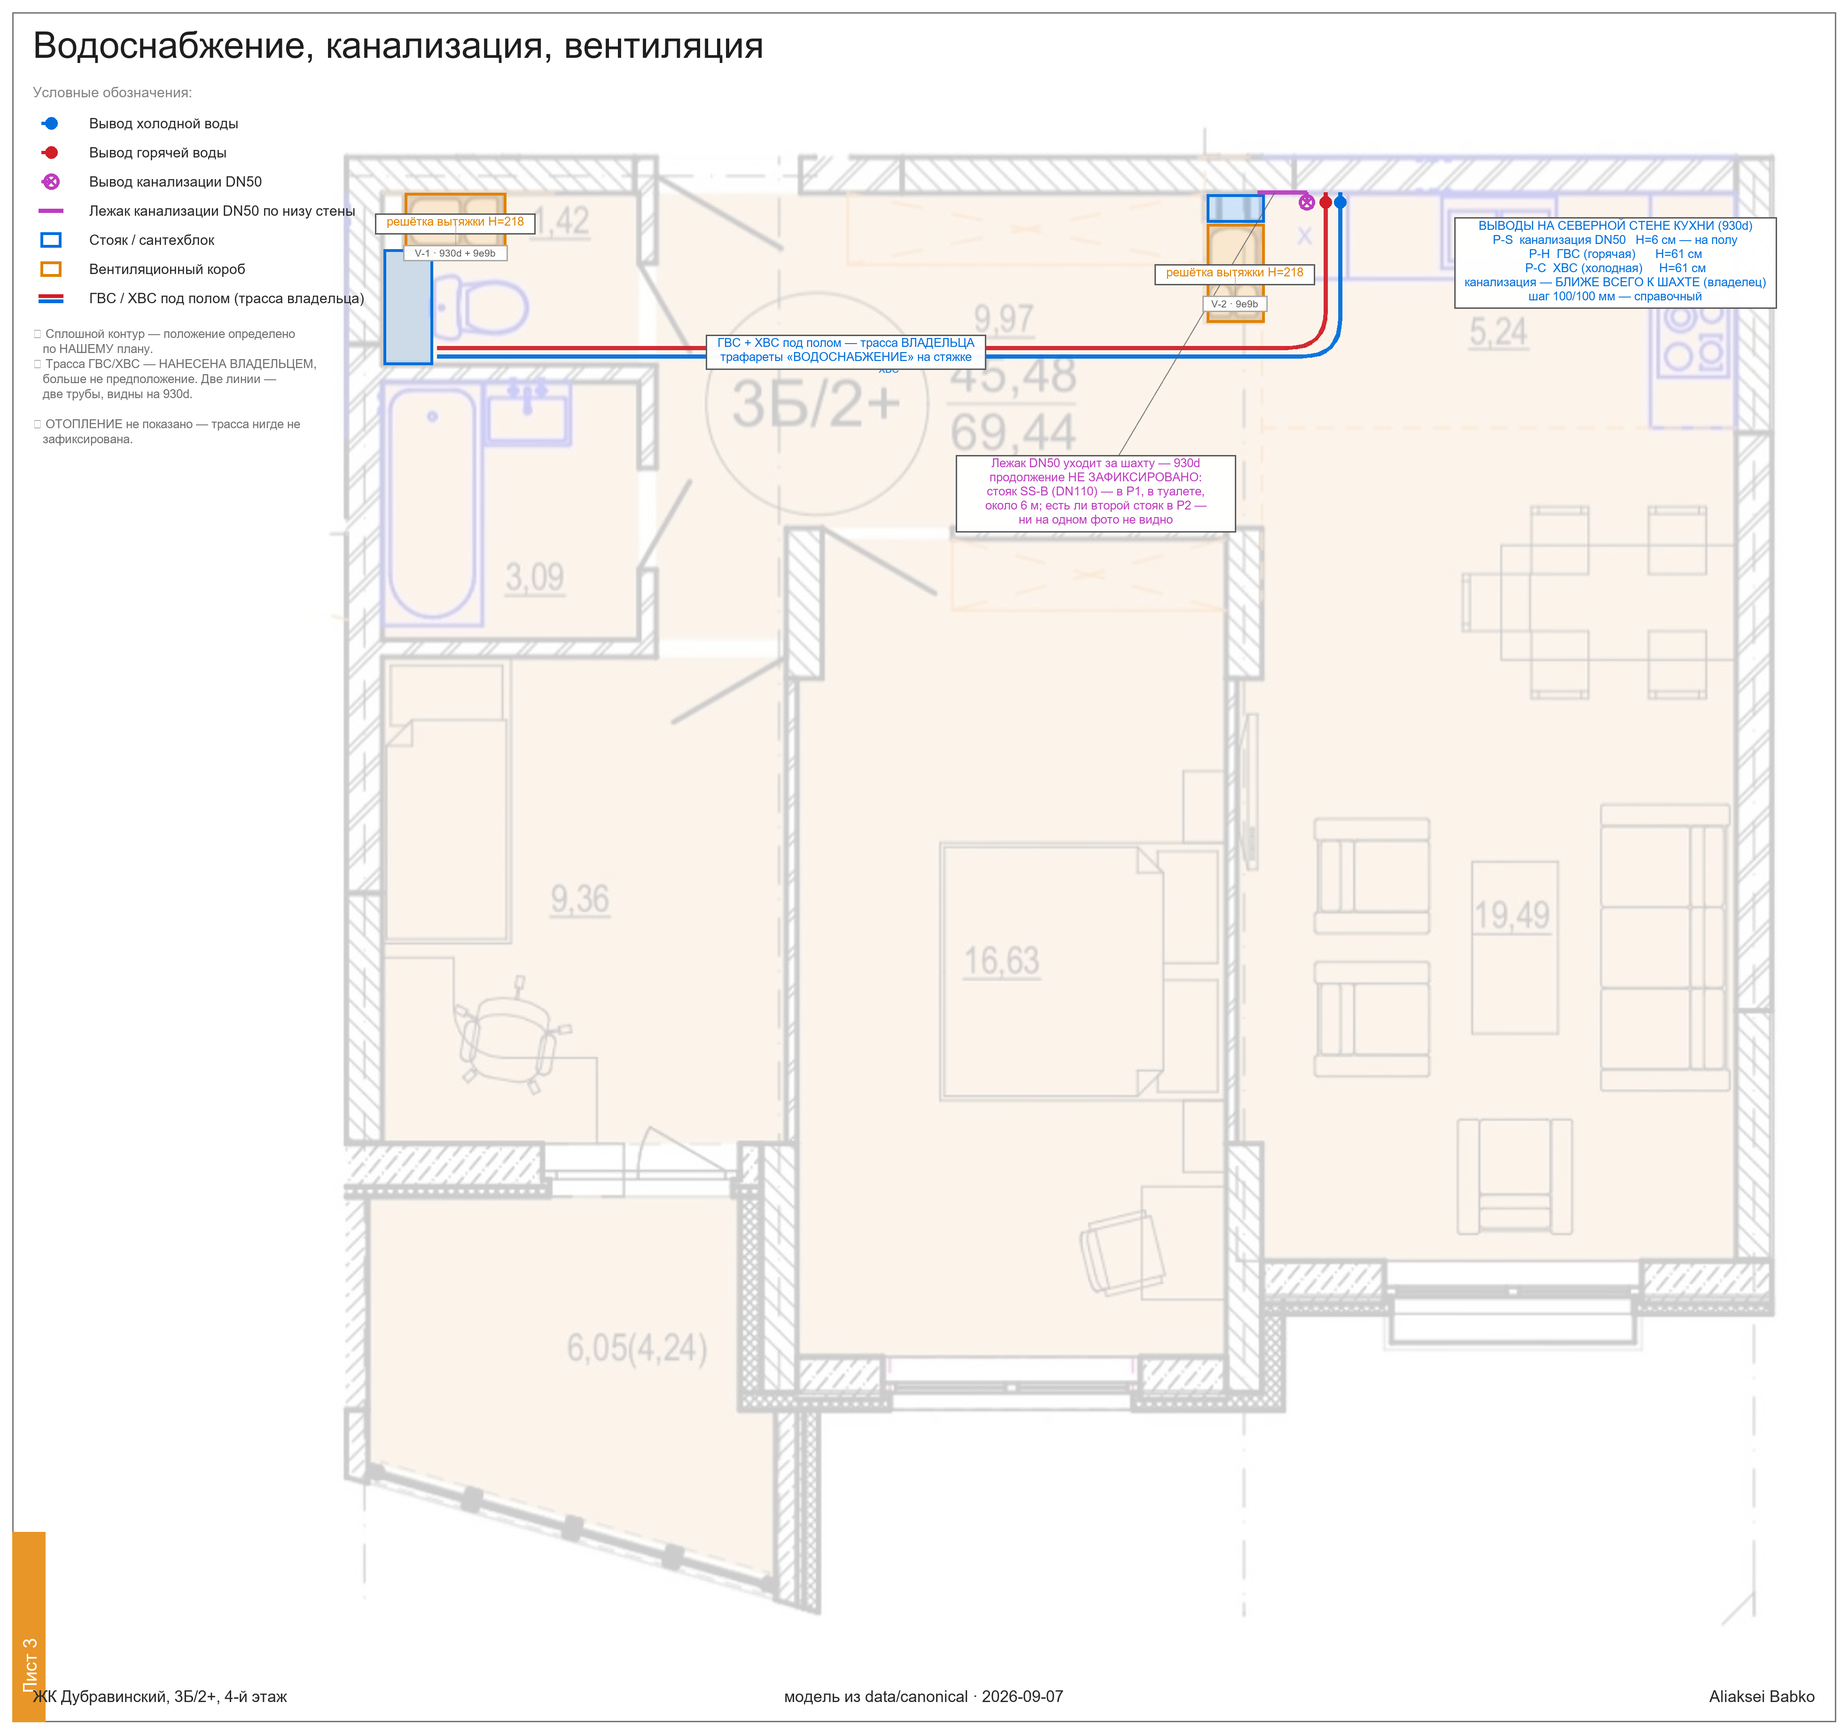
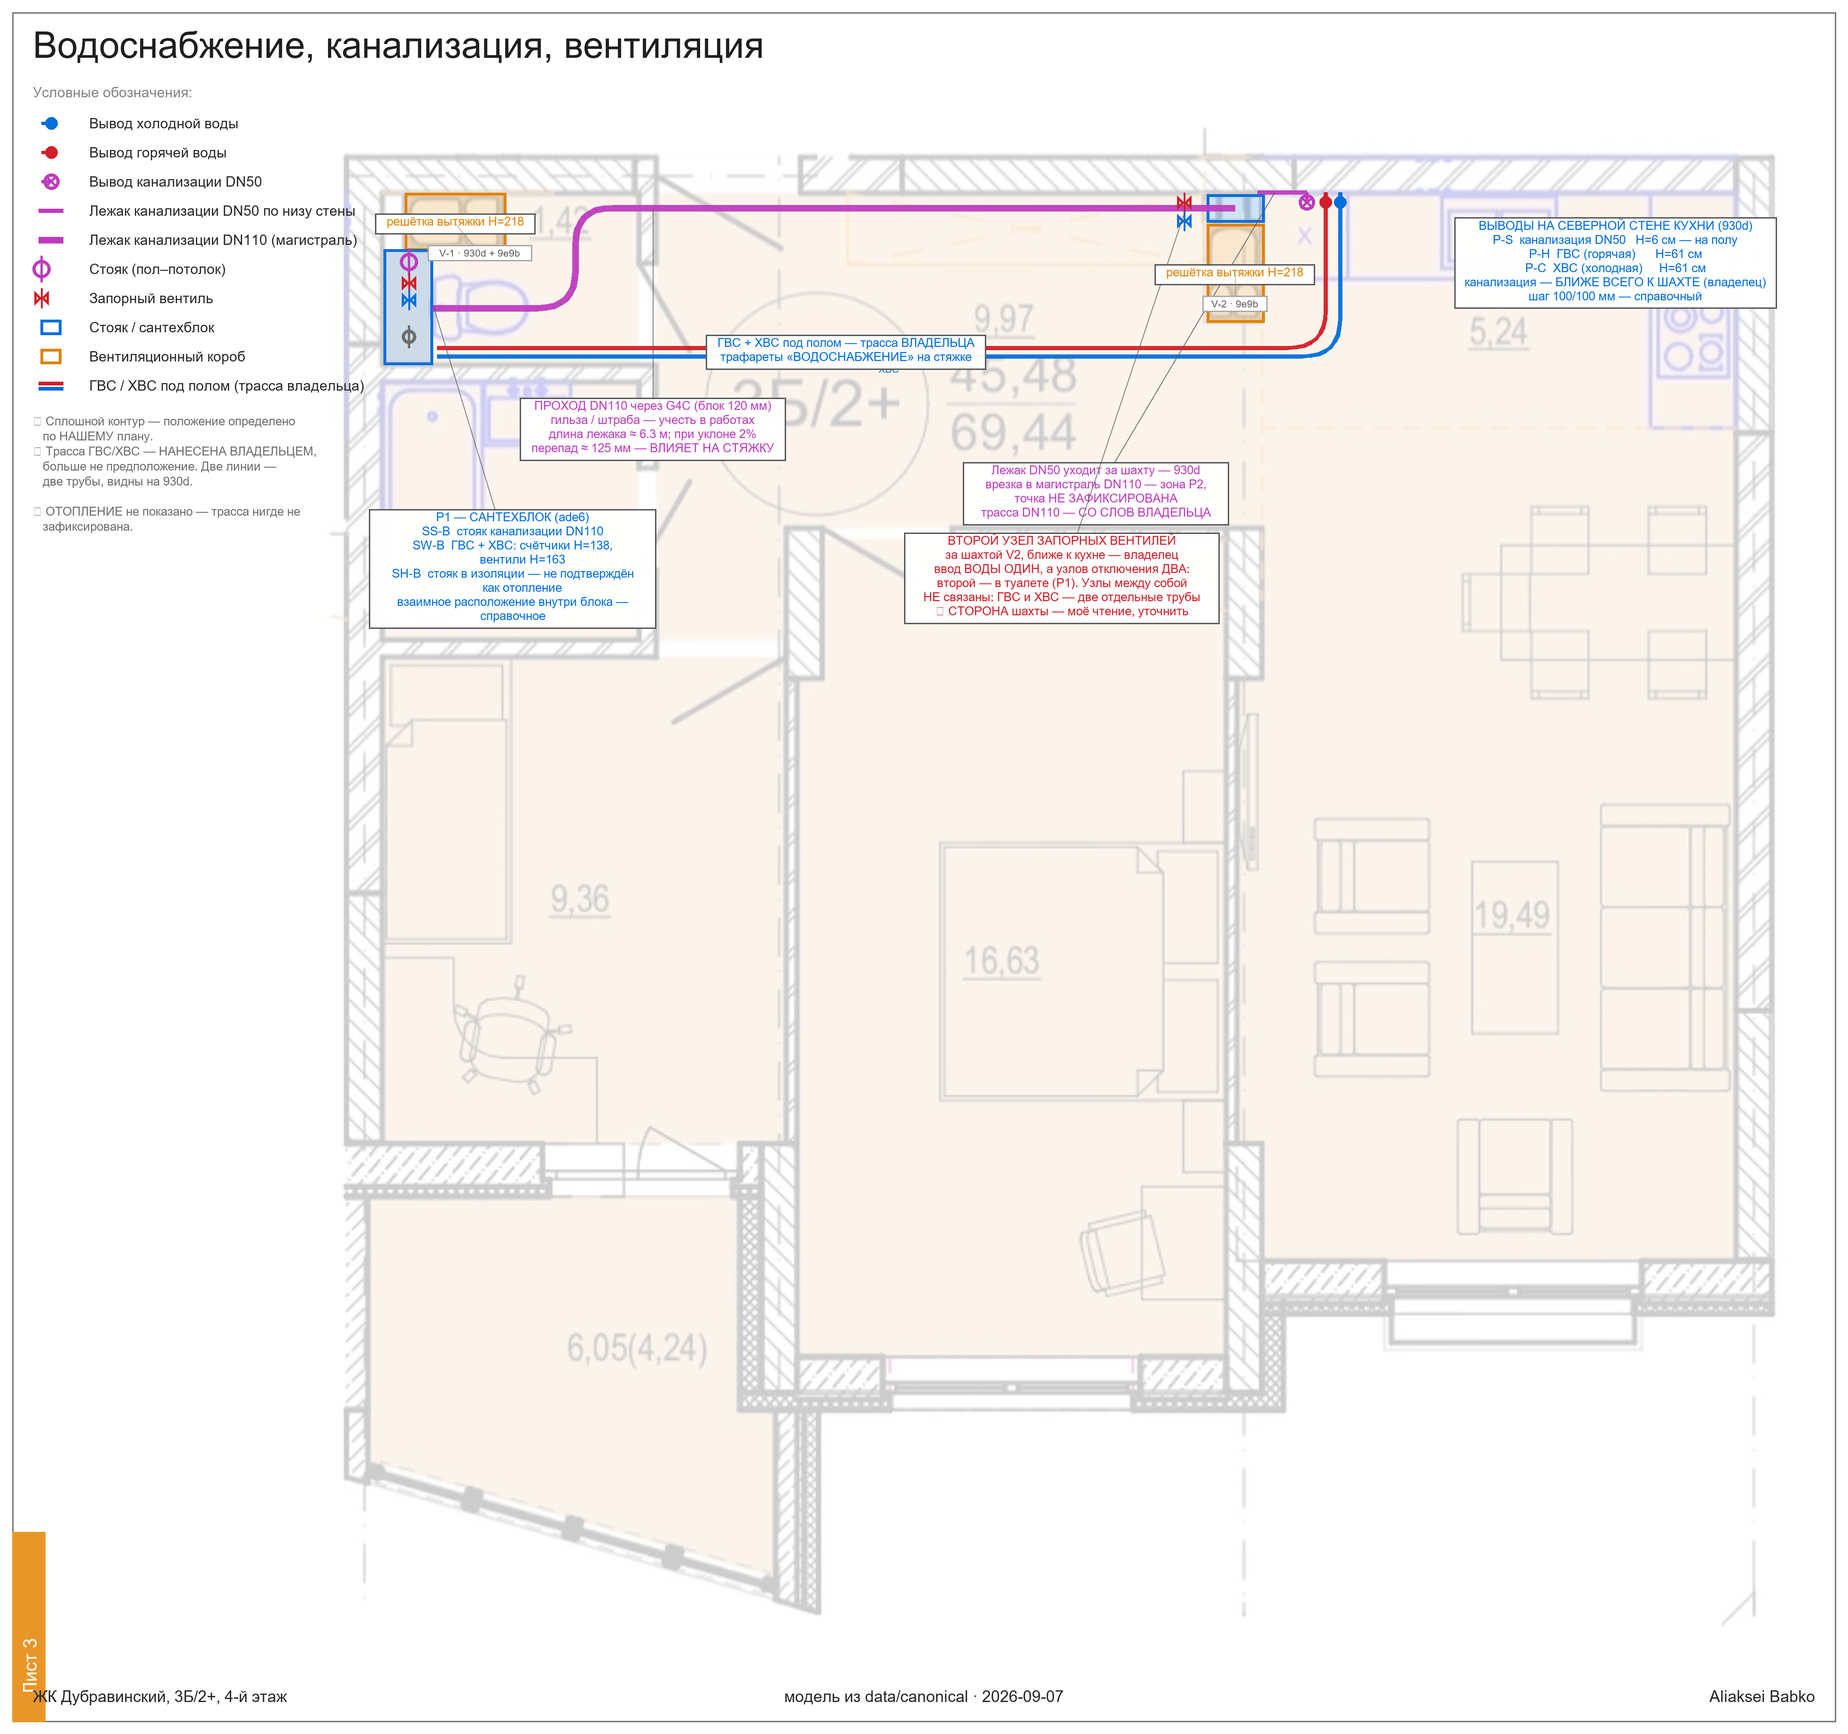
The DN110 main run, P1's service block, and two valve nodes
Three things from the owner, all of them things the sheet was missing.

The DN110 lezhak: from behind V2 (the P2 band) west, then south inside the WC
"somewhere in the middle between the side of venting shaft one and the wall of
the water closet", into the SS-B stack in P1. That sentence pins both legs -
midway V1-east/G4C-west is 187.9, midway V1-south/G4b-north is 151.9 - and
y=152 lands inside P1's own y-span, so the corridor he described arrives at
the stack by itself. I checked that before drawing rather than after. It also
closes the question the last sheet had to leave open.

Consequence that matters more than the route: ~6.3 m at 2% fall is ~125 mm of
drop plus the pipe. That is a screed constraint, and it is now on the sheet,
along with the DN110 penetration through G4C.

P1's contents: SS-B, SW-B with its meters and valves, SH-B. All three had been
in service_outlets.csv since the day it was written and none had ever been
drawn - the flat's whole service block was absent from its own services sheet,
exactly like the sewer run. Recording a finding is not delivering it.

And two valve nodes, not one: one input, two switch points - the WC and one
behind V2 near the kitchen - with GVS and HVS as two separate tubes, the nodes
not interconnected. Drawing only P1 made it look like the single point of
isolation for the flat. Which SIDE of V2 the second node sits on is my
reading, and is flagged as such on the sheet rather than asserted.

diff --git a/tools/layout/sheets/make_services_sheets.py b/tools/layout/sheets/make_services_sheets.py
@@ -219,6 +219,10 @@ s3.legend(lambda x, y, c: s3.sym_pipe(x - 20, y, 1, 0, c, 'water'), u'Вывод
 s3.legend(lambda x, y, c: s3.sym_pipe(x - 20, y, 1, 0, c, 'sewer'), u'Вывод канализации DN50', MG)
 s3.legend(lambda x, y, c: s3.d.line([(x - 26, y), (x + 26, y)], fill=MG, width=9),
           u'Лежак канализации DN50 по низу стены', MG)
+s3.legend(lambda x, y, c: s3.d.line([(x - 26, y), (x + 26, y)], fill=MG, width=14),
+          u'Лежак канализации DN110 (магистраль)', MG)
+s3.legend(lambda x, y, c: s3.sym_riser(x - 20, y, c, dn=True), u'Стояк (пол–потолок)', MG)
+s3.legend(lambda x, y, c: s3.sym_valve(x - 20, y, c), u'Запорный вентиль', R)
 s3.legend(lambda x, y, c: s3.d.rectangle([x - 22, y - 16, x + 22, y + 16], outline=c, width=6),
           u'Стояк / сантехблок', B)
 s3.legend(lambda x, y, c: s3.d.rectangle([x - 22, y - 16, x + 22, y + 16], outline=c, width=6),
@@ -272,9 +276,28 @@ for bid, (x0, y0, x1, y1), col in (('V1', (67, 70, 139, 111), OR), ('V2', (636, 
 # inventing an element, which is the rule the З1/З2 voids broke.
 SEWER = [(707.22765, 69.9953), (672, 69.9953)]
 
+# THE MAIN DN110 ЛЕЖАК, added 2026-09-07 on the owner. This ANSWERS the question
+# the previous sheet had to leave open — the kitchen DN50 does reach the P1
+# stack, and he described the corridor: “behind the V2 venting shaft, and then
+# behind the water closet, somewhere in the middle between the side of venting
+# shaft one and the wall of the water closet.”
+#
+# That one sentence pins BOTH legs, and I checked before drawing rather than
+# after:
+#   midway between V1’s EAST side (x=139) and G4C’s west face (236.9) = 187.9
+#   midway between V1’s SOUTH side (y=111) and G4b’s north face (192.87) = 151.9
+# so x=188 / y=152, 401 mm clear each way on the second leg. And y=152 lands
+# INSIDE P1’s y-span (110..192), i.e. the corridor he describes arrives at the
+# stack on its own — which is the corroboration, not my arithmetic.
+#
+# It starts in the P2 band (y 71..91), directly north of V2 — “behind the V2
+# venting shaft” — so P2 is where the kitchen branch and the main run meet.
+MAIN = [(656, 81), (188, 81), (188, 152), (87, 152)]
+
 ROUTES = [(u'ГВС', R, [(90, 180), (720.49225, 180), (720.49225, 69.9953)]),
           (u'ХВС', B, [(90, 186), (730.70995, 186), (730.70995, 69.9953)]),
-          (u'DN50', MG, SEWER)]
+          (u'DN50', MG, SEWER),
+          (u'DN110', MG, MAIN)]
 
 # no routed segment may cross a shaft or a plumbing block. The junction check
 # taught this — a check that cannot fail is not a check.
@@ -285,11 +308,12 @@ for lbl, col, route in ROUTES:
     # not by loosening the tolerance until the check stops complaining.
     # each route is exempted only from the block it TAKES OFF FROM or RUNS
     # INTO - by name, not by loosening the tolerance until the check goes quiet.
-    conn = ('P2',) if col is MG else ('P1',)
+    conn = ('P1', 'P2') if route is MAIN else ('P2',) if col is MG else ('P1',)
     bad = route_block_conflicts(route, BLOCKS, clear_mm=60.0, connects=conn)
     if bad:
         raise SystemExit(u'%s route crosses a service block: %s' % (lbl, u'; '.join(bad)))
-    s3.polyline_rounded(route, col, width=9, offset=0.0, r_mm=260.0)
+    s3.polyline_rounded(route, col, width=14 if route is MAIN else 9,
+                        offset=0.0, r_mm=260.0)
     if col is not MG:   # the sewer run is short; its label would sit on the block
         m = s3.P(((route[0][0] + route[1][0]) / 2.0, route[0][1] + (-5 if col is R else 9)))
         s3.d.text(m, lbl, fill=col, font=s3.f_src, anchor='mm')
@@ -297,11 +321,12 @@ print(u'  route/block clearance: %d routes, all clear of %d blocks, 1 turn each'
       % (len(ROUTES), len(BLOCKS)))
 s3.callout(*(list(s3.P((380, 183))) + [[u'ГВС + ХВС под полом — трасса ВЛАДЕЛЬЦА',
                                         u'трафареты «ВОДОСНАБЖЕНИЕ» на стяжке'], B]))
+# was “продолжение НЕ ЗАФИКСИРОВАНО” — the owner has now answered it, so the
+# open question is closed and the note says what it connects to instead.
 s3.callout(*(list(s3.P((684, 70))) + [[u'Лежак DN50 уходит за шахту — 930d',
-                                        u'продолжение НЕ ЗАФИКСИРОВАНО:',
-                                        u'стояк SS-B (DN110) — в P1, в туалете,',
-                                        u'около 6 м; есть ли второй стояк в P2 —',
-                                        u'ни на одном фото не видно'], MG, (-380, 640)]))
+                                       u'врезка в магистраль DN110 — зона P2,',
+                                       u'точка НЕ ЗАФИКСИРОВАНА',
+                                       u'трасса DN110 — СО СЛОВ ВЛАДЕЛЬЦА'], MG, (-380, 640)]))
 
 # ORDER CORRECTED 2026-09-07 by the owner: in 930d the sewer socket is CLOSER
 # TO THE VENTILATION SHAFT than either water outlet. I had it as the eastmost
@@ -347,6 +372,82 @@ s3.callout(mx + 620, my + 150, [u'ВЫВОДЫ НА СЕВЕРНОЙ СТЕНЕ 
                     u'P-C  ХВС (холодная)     H=61 см',
                     u'канализация — БЛИЖЕ ВСЕГО К ШАХТЕ (владелец)',
                     u'шаг 100/100 мм — справочный'], B)
+# ============ ТОЧКИ ЗАПОРНЫХ ВЕНТИЛЕЙ — ИХ ДВЕ ============
+# Owner, 2026-09-07: “we have one input for water, hot and cold, but we have TWO
+# switch points — one is [the] water closet, another one behind venting shaft
+# number two, which is closer to the kitchen zone. There are two separate
+# tubes.”
+#
+# So: ONE water entry, TWO shut-off nodes, and ГВС/ХВС are two separate pipes
+# throughout — the nodes are not interconnected. I had drawn only the туалет
+# node, which made it look like the single point of isolation for the flat.
+#
+# ⚠ “BEHIND shaft V2” is placed on its WEST side, i.e. the side hidden from the
+# kitchen, which is the reading that fits “closer to the kitchen zone” for a
+# node you reach from the прихожая. If he meant north of it, inside the wall
+# line, this moves — the SIDE is flagged, not asserted.
+VALVE2 = [('SW-K-V-H', 620, 77, R, u'ГВС — второй запорный вентиль'),
+          ('SW-K-V-C', 620, 90, B, u'ХВС — второй запорный вентиль')]
+for iid, bx, by, col, nt in VALVE2:
+    px, py = s3.P((bx, by))
+    s3.sym_valve(px, py, col)
+    REVIEW.append({'item_id': iid, 'kind': 'shut-off valve, kitchen-side node',
+                   'wall': 'at V2/P2', 'gang': '-', 'height_cm': '',
+                   'source_photos': u'владелец', 'photo_shows': nt,
+                   'position_basis': u'OWNER stated the node exists behind V2; '
+                                     u'WHICH SIDE of the shaft is my reading, to confirm',
+                   'owner_verdict': '', 'owner_correction': ''})
+s3.callout(*(list(s3.P((620, 84))) + [[u'ВТОРОЙ УЗЕЛ ЗАПОРНЫХ ВЕНТИЛЕЙ',
+                                       u'за шахтой V2, ближе к кухне — владелец',
+                                       u'ввод ВОДЫ ОДИН, а узлов отключения ДВА:',
+                                       u'второй — в туалете (P1). Узлы между собой',
+                                       u'НЕ связаны: ГВС и ХВС — две отдельные трубы',
+                                       u'⚠ СТОРОНА шахты — моё чтение, уточнить'], R, (-260, 700)]))
+
+# ============ P1, САНТЕХБЛОК В ТУАЛЕТЕ ============
+# The owner: “you can directly draw another outlet for both hot and cold water
+# and the switch as well.” — the “switch” being the shut-off VALVE, and the
+# outlets being SW-B, the risers with meters. All three of P1’s services have
+# been sitting in service_outlets.csv since it was written and NONE of them had
+# ever been drawn. Exactly the same omission as the sewer run: I had drawn only
+# the kitchen items and left the flat’s entire service block off its own
+# services sheet. Recording a finding is not delivering it.
+#
+# Heights are the CSV’s: SW-B meters ~1380, valves ~1630, the two sewers and
+# the insulated riser floor to ceiling.
+P1SVC = [('SS-B', 70, 119, MG, 'riser', u'стояк канализации DN110', 'ade6'),
+         ('SW-B-H', 70, 134, R, 'valve', u'ГВС: стояк, счётчик H=138, вентиль H=163', 'ade6'),
+         ('SW-B-C', 70, 146, B, 'valve', u'ХВС: стояк, счётчик H=138, вентиль H=163', 'ade6'),
+         ('SH-B', 70, 172, GY, 'riser', u'стояк в изоляции — НАЗНАЧЕНИЕ НЕ ПОДТВЕРЖДЕНО', 'ade6')]
+for iid, bx, by, col, kind, nt, src in P1SVC:
+    px, py = s3.P((bx, by))
+    if kind == 'riser':
+        s3.sym_riser(px, py, col, dn=(iid == 'SS-B'))
+    else:
+        s3.sym_valve(px, py, col)
+    REVIEW.append({'item_id': iid, 'kind': 'service riser / valve, P1', 'wall': 'P1',
+                   'gang': '-', 'height_cm': 'floor-ceiling', 'source_photos': src,
+                   'photo_shows': nt,
+                   'position_basis': 'inside P1 per service_outlets.csv; '
+                                     'arrangement WITHIN the block indicative',
+                   'owner_verdict': '', 'owner_correction': ''})
+s3.callout(*(list(s3.P((87, 150))) + [[u'P1 — САНТЕХБЛОК (ade6)',
+                                       u'SS-B  стояк канализации DN110',
+                                       u'SW-B  ГВС + ХВС: счётчики H=138,',
+                                       u'      вентили H=163',
+                                       u'SH-B  стояк в изоляции — не подтверждён',
+                                       u'      как отопление',
+                                       u'взаимное расположение внутри блока —',
+                                       u'справочное'], B, (170, 560)]))
+
+# the DN110 must pass through G4C (120 mm block, x=243) to get from the kitchen
+# side into the туалет. That is ordinary for a лежак but it is a real
+# penetration and belongs on the sheet, not in my head.
+s3.callout(*(list(s3.P((243, 81))) + [[u'ПРОХОД DN110 через G4C (блок 120 мм)',
+                                       u'гильза / штраба — учесть в работах',
+                                       u'длина лежака ≈ 6.3 м; при уклоне 2%',
+                                       u'перепад ≈ 125 мм — ВЛИЯЕТ НА СТЯЖКУ'], MG, (0, 470)]))
+
 for iid, bx, by, nt, src in (('V-1', 103, 92, u'решётка вытяжки H=218', '930d + 9e9b'),
                              ('V-2', 656, 128, u'решётка вытяжки H=218', '9e9b')):
     px, py = s3.P((bx, by))

diff --git a/tools/layout/sheets/sheet_lib.py b/tools/layout/sheets/sheet_lib.py
@@ -334,6 +334,21 @@ class Sheet(object):
         else:
             self.d.ellipse([cx - r + 4, cy - r + 4, cx + r - 4, cy + r - 4], fill=col)
 
+    def sym_valve(self, x, y, col):
+        """a shut-off valve - the standard bow-tie, on a riser or a tail."""
+        self.reserve(x, y, 24)
+        k = 15
+        self.d.polygon([(x - k, y - k), (x, y), (x - k, y + k)], outline=col, width=5)
+        self.d.polygon([(x + k, y - k), (x, y), (x + k, y + k)], outline=col, width=5)
+        self.d.line([(x, y - k - 6), (x, y + k + 6)], fill=col, width=4)
+
+    def sym_riser(self, x, y, col, dn=False):
+        """a riser passing floor to ceiling - a circle with a vertical bar."""
+        r = 19 if dn else 15
+        self.reserve(x, y, r + 10)
+        self.d.ellipse([x - r, y - r, x + r, y + r], outline=col, width=7)
+        self.d.line([(x, y - r - 9), (x, y + r + 9)], fill=col, width=5)
+
     def polyline_rounded(self, pts, col, width=9, offset=0.0, r_mm=260.0):
         """a polyline with FILLETED corners, offset sideways by `offset` basic px.
 
